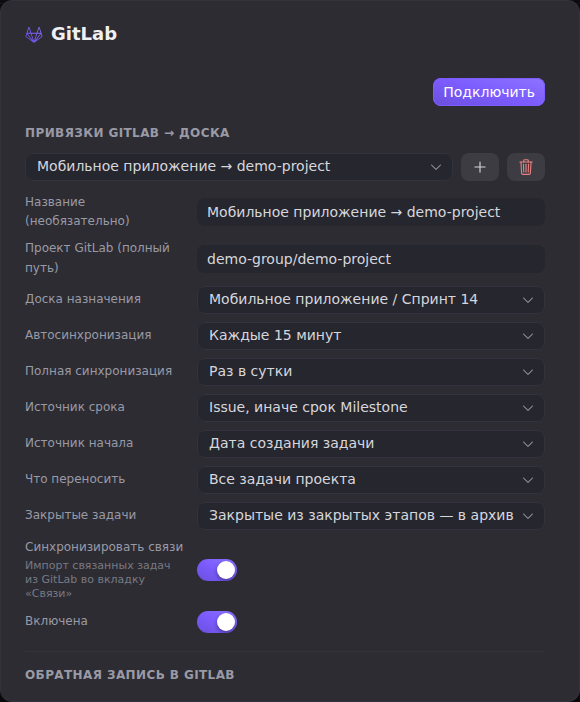
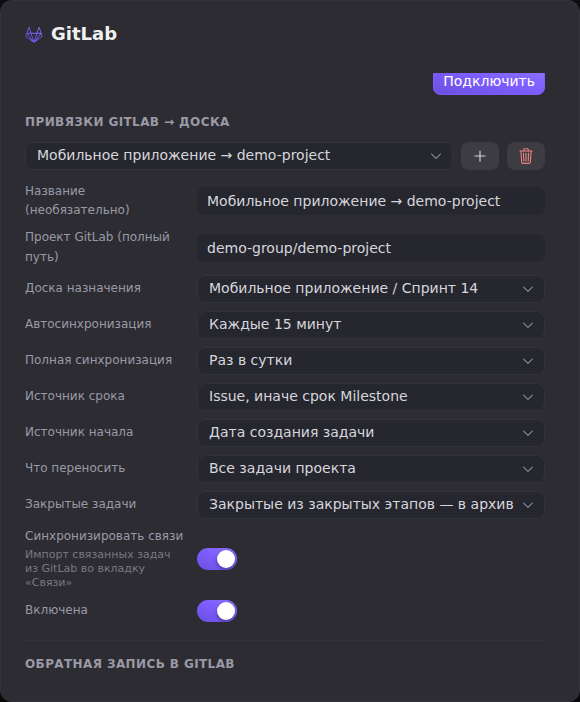
docs(web): справка — подробная настройка синхронизации с GitLab (#2810)
Волна 3 раздела «Администрирование»: статья про вторую половину интеграции —
что и в какую сторону ездит между Tessera и GitLab.

- docs/help/admin/admin-gitlab-sync.md (order 86): обратная запись (общий
  рубильник, создание issue и шаблоны, выгрузка подзадач и группирующая метка,
  вложения), таблица «событие в Tessera → действие в GitLab» со всеми девятью
  действиями, асинхронная очередь с повторами; правила разбора меток (префикс
  и regex, шесть действий, таблицы соответствий, префикс тега и его связь с
  обратной записью тегов); трёхсторонние конфликты и панель разрешения; чтение
  журнала синхронизации; раздел «если что-то идёт не так».
- Кадры gitlab-writeback и gitlab-tags (light/dark): для них сид демо-стенда
  задаёт привязке включённую обратную запись с пятью действиями, иначе панель
  открывалась бы набором, синтезированным из старых флагов.
- helpIndex.json пересобран (12 статей), фрагмент changelog дополнен.

Данные в кадрах выдуманы: gitlab.example.com, demo-group/demo-project.

diff --git a/frontend/e2e/shots/demo.js b/frontend/e2e/shots/demo.js
@@ -177,12 +177,55 @@ const DEMO_BINDING = {
   relations_sync: 'pull',
 }
 
+// Write-back actions for the demo binding (#2810). The pane documents a table of
+// trigger→action rows, and an integration that never had one authored opens it
+// synthesized from the legacy flags — a list without a column move, which is the
+// row the article talks about first. Spelling the set out here keeps the picture
+// stable and shows the qualifiers (a specific column, a marker on a comment).
+// The labels are the project's own S:/P: taxonomy, the one the default parsing
+// rules in the neighbouring shot read back.
+function demoWriteback(columns) {
+  const col = (name) => columns.find((c) => c.name === name)
+  return {
+    enabled: true,
+    push_create: true,
+    fetch_templates: true,
+    bindings: [
+      {
+        enabled: true,
+        trigger: { type: 'column', column_id: col('В процессе')?.id, column_name: 'В процессе' },
+        action: { type: 'set_label', label: 'S: In progress', clear_prefix: true },
+      },
+      {
+        enabled: true,
+        trigger: { type: 'completion', completed: true },
+        action: { type: 'set_state', state: '' },
+      },
+      {
+        enabled: true,
+        trigger: { type: 'due' },
+        action: { type: 'set_due', date_kind: 'due' },
+      },
+      {
+        enabled: true,
+        trigger: { type: 'labels' },
+        action: { type: 'reconcile_labels' },
+      },
+      {
+        enabled: false,
+        trigger: { type: 'comment' },
+        action: { type: 'post_comment', add_marker: true },
+      },
+    ],
+  }
+}
+
 // seedInstance fills the instance-wide state the admin articles document: a few
 // accounts in different states, a GitLab OAuth application and a project binding.
 // Only possible for a global admin — and the backend grants that to the *first*
 // account of an instance, so it happens on a clean database and is skipped on a
 // shared one (the admin shots skip with it; see help-shots.spec.js).
-async function seedInstance(runId, token, workspaceId, boardId) {
+async function seedInstance(runId, token, workspaceId, boardId, columns) {
   for (const [i, u] of INSTANCE_USERS.entries()) {
     let created
     try {
@@ -206,7 +249,7 @@ async function seedInstance(runId, token, workspaceId, boardId) {
   )
   await api.post(
     `/workspaces/${workspaceId}/gitlab/integrations`,
-    { ...DEMO_BINDING, board_id: boardId },
+    { ...DEMO_BINDING, board_id: boardId, writeback: demoWriteback(columns) },
     token,
   )
 }
@@ -335,7 +378,7 @@ export async function seedDemo(runId, base) {
 
   // Instance-wide state for the admin articles (#2810). Gated on the flag the
   // backend itself set at registration, not on a guess about the database.
-  if (user.is_admin) await seedInstance(runId, t, ws.id, board.id)
+  if (user.is_admin) await seedInstance(runId, t, ws.id, board.id, columns)
 
   return {
     runId,

diff --git a/frontend/e2e/shots/help-shots.spec.js b/frontend/e2e/shots/help-shots.spec.js
@@ -212,6 +212,38 @@ for (const scheme of ['light', 'dark']) {
       await shoot(page, scheme, 'gitlab-bindings', card)
     })
 
+    // The two right-pane editors (#2810, wave 3). Both live below the fold of the
+    // left pane, so the pane is scrolled to the button row before clicking; the
+    // shot is of the whole card, because the point of these pictures is that the
+    // modal *expands* into a second pane next to the settings it belongs to.
+    async function openRightPane(page, buttonName) {
+      const card = await openGitlab(page)
+      await card.locator('.gl-left').evaluate((pane) => {
+        pane.scrollTop = pane.scrollHeight
+      })
+      await card.getByRole('button', { name: buttonName }).click()
+      await expect(card.locator('.gl-right')).toBeVisible()
+      return card
+    }
+
+    test('GitLab: действия обратной записи', async ({ page }) => {
+      test.skip(!seed.isAdmin, 'демо-пользователь не админ — нужна чистая база (E2E_DB_URL)')
+      const card = await openRightPane(page, /Настроить действия/)
+      // The bindings come from the seed; waiting for the first row's summary keeps
+      // the shutter off the pane's own loading frame.
+      await expect(card.locator('.gl-rcard').first()).toBeVisible()
+      await shoot(page, scheme, 'gitlab-writeback', card)
+    })
+
+    test('GitLab: правила разбора меток', async ({ page }) => {
+      test.skip(!seed.isAdmin, 'демо-пользователь не админ — нужна чистая база (E2E_DB_URL)')
+      const card = await openRightPane(page, 'Настроить правила')
+      // The rules are the backend's defaults (S:/P:/M:), so the value maps are
+      // filled — waiting for the first one avoids shooting three empty cards.
+      await expect(card.locator('.gl-rmap .gl-rule').first()).toBeVisible()
+      await shoot(page, scheme, 'gitlab-tags', card)
+    })
+
     test('фоновые задания', async ({ page }) => {
       test.skip(!seed.isAdmin, 'демо-пользователь не админ — нужна чистая база (E2E_DB_URL)')
       await openBoard(page)

diff --git a/docs/help/admin/admin-gitlab-sync.md b/docs/help/admin/admin-gitlab-sync.md
@@ -1,0 +1,121 @@
+---
+title: Подробная настройка синхронизации с GitLab
+category: Администрирование
+order: 86
+keywords: администрирование, gitlab, синхронизация, обратная запись, метки, теги, конфликты, журнал, issue
+updated: 2026-08-25
+platforms: web
+---
+
+Когда [привязка проекта](/help/admin-gitlab-project) уже настроена, остаётся решить, что именно и в какую сторону ездит между Tessera и GitLab. Направлений два, и настраиваются они порознь:
+
+- **из GitLab в Tessera** — синхронизация читает issue и превращает их метки в колонку, приоритет и теги. Этим управляют **правила разбора меток**;
+- **из Tessera в GitLab** — изменения задачи возвращаются на issue. Это **обратная запись**, она выключена по умолчанию и включается по одному действию.
+
+Когда обе стороны меняют одно и то же поле, изменение не затирается, а откладывается в **конфликт**. Что именно сделал каждый запуск, видно в **журнале синхронизации**.
+
+Все настройки ниже живут в окне **«Интеграции» → GitLab** и относятся к выбранной привязке. Менять их может только администратор экземпляра.
+
+## Обратная запись в GitLab
+
+Раздел «Обратная запись в GitLab» находится под полями привязки. Верхний выключатель **«Включить запись»** — общий рубильник: пока он выключен, ни одно действие в GitLab не уходит, как бы ни были настроены остальные переключатели.
+
+**Создание issue из задачи** добавляет в модалку задачи (под свойством «Родитель») кнопку **«Создать issue в GitLab»**. Issue открывается из заголовка, описания и свойств задачи, после чего задача становится синхронизированной. Это отдельная возможность: она работает, даже если обратная запись изменений не настроена ни на одно поле.
+
+**Получение issue-templates из проекта** подтягивает шаблоны из `.gitlab/issue_templates/*.md` — при создании issue шаблон можно выбрать над редактором описания.
+
+**Выгрузка подзадач в иерархию GitLab** создаёт подзадачи сгруппированной задачи дочерними элементами issue. Родителя помечает метка из поля **«Метка сгруппированной задачи»** (пусто — берётся `M: Сгруппированная задача`). Метку задают здесь, а не тегом: она должна читаться правилами разбора как группирующая, иначе сервер отклонит кнопку «Сделать сгруппированной». **«Помечать родителя автоматически»** по умолчанию выключено — иначе первая же подзадача молча поправит метки в GitLab; вместо этого в списке подзадач появляется подсказка с кнопкой.
+
+**Загружать вложения в GitLab** копирует картинки из описания и комментариев, а также файлы задачи, в хранилище загрузок проекта GitLab. Без этого ссылки в issue остаются битыми — GitLab резолвит их от своего адреса. Выключают его тогда, когда не хотят дублировать бинарники: ссылки тогда заменяются пометкой. Учтите: удаление файла в Tessera копию в GitLab не убирает, штатного API удаления загрузок у GitLab нет.
+
+### Действия обратной записи
+
+Что именно происходит на issue, задаёт таблица действий — кнопка **«Настроить действия»** открывает её в правой части окна. Кнопка неактивна, пока не включена запись.
+
+![Правая панель «Действия обратной записи»](../assets/gitlab-writeback-light.png)
+
+Каждая строка — пара «событие в Tessera → действие в GitLab», со своим выключателем: правило можно погасить, не удаляя. Записи уходят под токеном владельца интеграции, которому нужен scope `api`.
+
+Событий в Tessera десять: перемещение в колонку, флаг «Выполнено», изменение приоритета, срока, исполнителей, оценки, этапа, заголовка или описания, тегов и новый комментарий. У части из них есть уточнение — конкретная колонка, конкретный уровень приоритета («Любой приоритет» = любое изменение), направление флага «Выполнено» («Стало выполнено» / «Снято» / любое изменение).
+
+Действий в GitLab девять:
+
+| Действие | Что делает |
+|---|---|
+| **Установить метку** | ставит на issue указанную метку. Переключатель **«Снимать метки того же префикса»** убирает соседей по префиксу — так `S: In progress` вытесняет `S: To do`, а не копится рядом с ней |
+| **Закрыть / открыть issue** | закрывает или открывает; вариант «Из флага „Выполнено“» берёт направление из самой задачи |
+| **Установить срок** | пишет `due_date`. Начало (start) у issue нет, этот вариант для них игнорируется |
+| **Установить исполнителей** | переносит исполнителей задачи. Сопоставляются только те, кто входил в Tessera через GitLab |
+| **Установить оценку** | пишет `timeEstimate`; имеет смысл, только когда доска считает оценку во времени |
+| **Установить этап** | ставит milestone — если этап Tessera сам связан с GitLab |
+| **Обновить заголовок/описание** | переносит текст задачи в issue |
+| **Синхронизировать теги** | приводит метки issue в соответствие тегам задачи |
+| **Написать комментарий** | публикует комментарий; **«Добавлять маркер Tessera»** дописывает в конец подпись, по которой читатель в GitLab понимает, откуда пришла запись |
+
+Перенос в колонку намеренно **ставит метку статуса, а не закрывает issue**: закрытие — это отдельное событие «Выполнено», и смешивать их значило бы закрывать issue всякий раз, когда карточка доехала до правого края доски.
+
+Пустая таблица не означает «ничего не делать»: если действия ни разу не настраивали, при открытии окна набор восстанавливается из прежних флагов записи, и его видно готовым к правке.
+
+Тонкость про теги: действие «Синхронизировать теги» работает только тогда, когда имя тега можно превратить обратно в полное название метки, то есть при включённом **«Сохранять префикс тега»** в правилах разбора. Если префикс отбрасывается, восстановить `T: bug` из тега `bug` нечем — и такие записи не ставятся в очередь вовсе.
+
+### Как уходят изменения
+
+Обратная запись асинхронная: обработчик задачи только кладёт изменение в очередь, а фоновый воркер разбирает её пачками примерно раз в десять секунд. Поэтому недоступный GitLab не тормозит работу в Tessera — запись просто подождёт. Неудачная попытка повторяется с растущей паузой, до пяти раз, после чего запись помечается неудачной и остаётся в журнале. Серия правок одного и того же поля схлопывается в одну запись (побеждает последняя) — комментарии не схлопываются никогда.
+
+## Правила разбора меток GitLab
+
+Обратная дорога: как метки issue превращаются в состояние задачи. Кнопка **«Настроить правила»** открывает редактор — он доступен независимо от того, включена ли обратная запись.
+
+![Правая панель «Правила разбора меток GitLab»](../assets/gitlab-tags-light.png)
+
+Сверху — три общих параметра:
+
+- **Колонка по умолчанию** — куда попадёт issue, если ни одно правило статуса не сработало;
+- **Прочие метки** — что делать с метками, не подошедшими ни под одно правило: «Создавать тег» (по умолчанию) или «Игнорировать»;
+- **Сохранять префикс тега** — оставлять ли в имени тега префикс метки (`T: bug`) или отбрасывать его (`bug`). От этого зависит и обратная запись тегов, см. выше.
+
+Ниже — список правил. Каждое состоит из образца, типа сравнения и действия:
+
+- **Префикс** — метка подходит, если начинается с образца (`S: `); значением считается остаток названия;
+- **Regex** — метка подходит по регулярному выражению; значением считается всё название целиком.
+
+Действий шесть:
+
+- **Статус → колонка** и **Приоритет** и **Доска (роутинг)** — с таблицей соответствий «значение метки → колонка / уровень приоритета / доска». Роутинг по доске нужен, когда issue одного проекта раскладываются по разным доскам;
+- **Тег** — метка становится тегом задачи (со своим переключателем префикса);
+- **Группировка (подзадачи)** — метка помечает задачу сгруппированным родителем;
+- **Игнорировать** — метка отбрасывается.
+
+У правила с типом «Префикс» есть **понятное имя** — подпись, под которой префикс показывается в интерфейсе Tessera (например, «Статус» для `S: `). Она хранится у проекта, а не у правила, поэтому её видно и на других экранах с тегами.
+
+Разбор идёт сверху вниз: каждая метка достаётся первому подошедшему правилу, а статус, приоритет и доска берутся из первого сработавшего совпадения. Значения в таблицах сверяются без учёта регистра — метка `S: In Progress` найдёт строку `In progress`.
+
+Изначально правила заполнены принятой в проекте раскладкой: `S: ` — статус, `P: ` — приоритет, `M: ` — группировка, остальное превращается в теги с сохранением префикса. Если у команды другая система меток — разумнее переписать таблицы соответствий, чем переименовывать метки в GitLab.
+
+## Конфликты
+
+Синхронизация не решает за вас, кто прав. Если с момента последнего обмена **и вы, и GitLab** изменили одно и то же поле, запись не уходит, а откладывается в конфликт. Так ведут себя заголовок и описание, срок, оценка, статус «Выполнено» и приоритет — то есть поля, где потеря чужой правки заметна.
+
+Неразрешённый конфликт видно сразу в трёх местах: оранжевая метка **«Конфликт»** на карточке задачи, счётчик на кнопке «Синхронизировать» и на иконке «Интеграции» в подвале, и пункт **«Конфликты»** в меню рядом с кнопкой синхронизации (он активен, только когда есть что разрешать).
+
+Панель конфликтов показывает слева список задач, справа — разбор по полям в трёх колонках: **«Было (база)»** — значение на момент последней синхронизации, **«GitLab»** и **«Tessera»** — что стало с каждой стороны. Для заголовка и описания расхождения подсвечиваются построчно.
+
+Решение принимается кнопками: оставить своё, оставить значение GitLab или **объединить вручную** — последнее доступно для текстовых и числовых полей (для статуса и приоритета выбор и так двоичный). После разрешения выбранное значение отправляется в GitLab обычной обратной записью, а базовый снимок обновляется, чтобы следующая правка не считалась расхождением снова.
+
+## Журнал синхронизации
+
+Пункт **«Журнал синхронизации»** в меню кнопки «Синхронизировать» открывает историю запусков. Слева — список: тип (**Pull** — чтение из GitLab, **Push** — доставка обратной записи), время старта, что запустило (вручную или авто), итог и длительность. Точка справа показывает состояние: выполняется, успех, частично, ошибка. Идущий прямо сейчас запуск виден живьём — счётчик времени тикает, и по окончании строка сама меняет статус, панель переоткрывать не нужно.
+
+Счётчики у pull-запуска читаются так: `+N` — создано задач, `~N` — обновлено, «без изменений» — обход прошёл, расхождений не нашлось. У push-запуска считаются доставки.
+
+Клик по запуску раскрывает список действий, клик по действию — подробности справа: какие поля изменились и на что, какие теги, комментарии и исполнители затронуты. Длинный запуск отдаётся страницами — внизу списка появляется **«Показать ещё»**. У неудачной доставки (только у push) есть кнопка **«Повторить»** — она ставит запись обратно в очередь.
+
+## Если что-то идёт не так
+
+- **Изменения не уезжают в GitLab.** Проверьте общий выключатель «Включить запись», затем — есть ли в таблице включённое действие на нужное событие. Событие без действия не ставится в очередь вообще, и в журнале от него не останется следа.
+- **Задачи приходят не в ту колонку.** Смотрите правило статуса: скорее всего, значение метки отсутствует в таблице соответствий, и сработала колонка по умолчанию.
+- **Метки приезжают тегами вместо статуса.** Ни одно правило не подошло, и метку подобрало «Прочие метки → Создавать тег». Чаще всего дело в префиксе: в правиле `S: ` с пробелом, а в GitLab метка `S:In progress`.
+- **Теги не уходят обратно в GitLab.** Включите «Сохранять префикс тега» — без префикса имя тега не превращается обратно в название метки.
+- **Исполнители не переносятся ни в ту, ни в другую сторону.** Люди сопоставляются по идентичности GitLab: пока человек не вошёл в Tessera через GitLab хотя бы раз, сопоставлять его не с чем.
+- **Запись помечена неудачной.** Откройте её в журнале — там текст ошибки от GitLab. После устранения причины (права токена, удалённый issue, недоступный сервер) нажмите «Повторить».
+- **Кнопка «Сделать сгруппированной» не срабатывает.** Метка сгруппированной задачи должна попадать под правило с действием «Группировка»; иначе Tessera поставила бы метку, которую сама же прочитала бы как обычный тег.

diff --git a/changelog.d/frontend/2810-admin-help-docs.md b/changelog.d/frontend/2810-admin-help-docs.md
@@ -13,4 +13,6 @@ bump: patch
   Добавлены «Вход через GitLab (OAuth)» (приложение на стороне GitLab, поля
   карточки и хранение секретов, sudo-запись, сценарии первого входа, Org map) и
   «Привязка проекта GitLab к доске» (аккаунт, выбор и поля привязки, запуск
-  синхронизации, частые ошибки).
+  синхронизации, частые ошибки), «Подробная настройка синхронизации с GitLab»
+  (обратная запись и таблица действий, правила разбора меток, разрешение
+  конфликтов, чтение журнала синхронизации).
